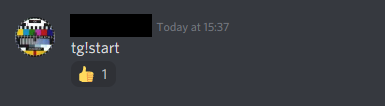
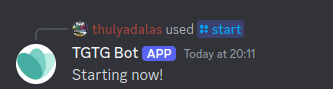
chore: update docs

Changed region(s): [[0.03, 0.1348, 0.7808, 0.9438]]

diff --git a/src/discord/commands.rs b/src/discord/commands.rs
@@ -8,7 +8,7 @@ use crate::data::{TGTGConfig, OSM_ZOOM_LEVEL, RADIUS_UNIT};
 
 use super::{Context, Error};
 
-/// Check the bot
+/// Check the bot if it's ready to work
 #[poise::command[prefix_command, slash_command]]
 pub async fn health(ctx: Context<'_>) -> Result<(), Error> {
     info!("Channel {}: Health check recieved.", ctx.channel_id());
@@ -129,7 +129,7 @@ async fn radius(
     Ok(())
 }
 
-// Sets the location with given radius with regex filter
+/// Sets the location with given radius with regex filter
 #[poise::command[prefix_command, slash_command]]
 async fn full(
     ctx: Context<'_>,

diff --git a/README.md b/README.md
@@ -67,24 +67,19 @@ Message Content Intent
 
 ## Bot Usage
 
-Available bot commands:
-```
-tg!location <latitude> <longitude>
-tg!radius <radius in km>
-tg!regex <regular expression to filter bags>
-tg!start
-tg!stop
-tg!status
-tg!quit
-```
+Available commands can be seen with the / usage. Here's a screenshot below.
+
+![Commands](images/slash_commands.png)
 
 You should register the location as the first command to be able use the bot. You can retrieve the wanted location's latitude and longitude on OpenStreetMaps' address bar or on Google Maps' context menu. Setting a radius is optional. It defaults to 3 km. 
 
 ### Example - Setting a location
 
-![Location](images/location.png)
+![Location entry](images/location_entry.png)
 
 The bot responds with a message to confirm.
+
+![Location confirm](images/location_confirm.png)
 
 ### Example - Starting
 
